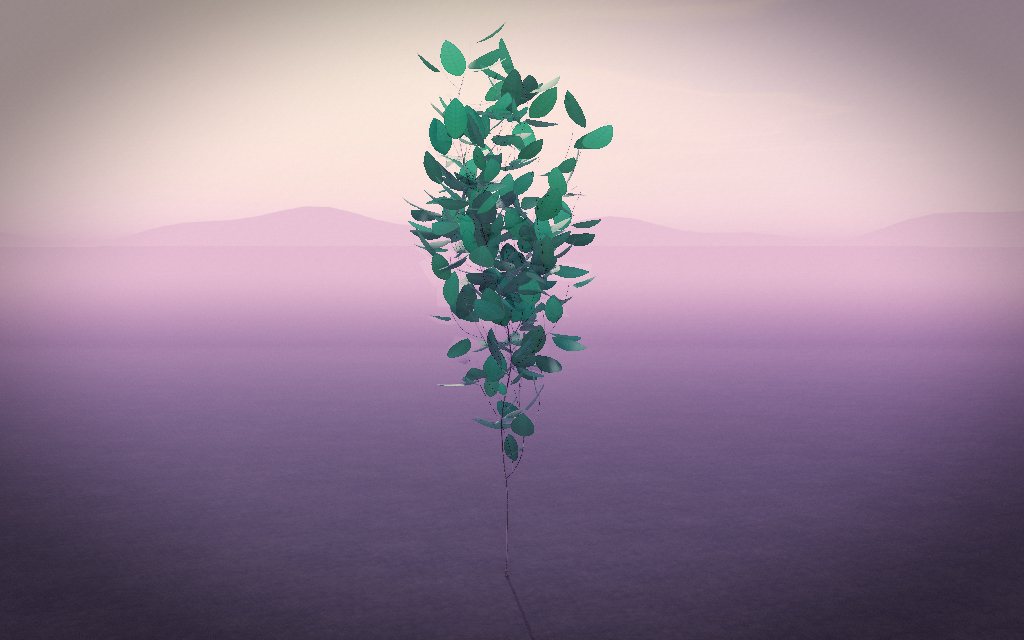
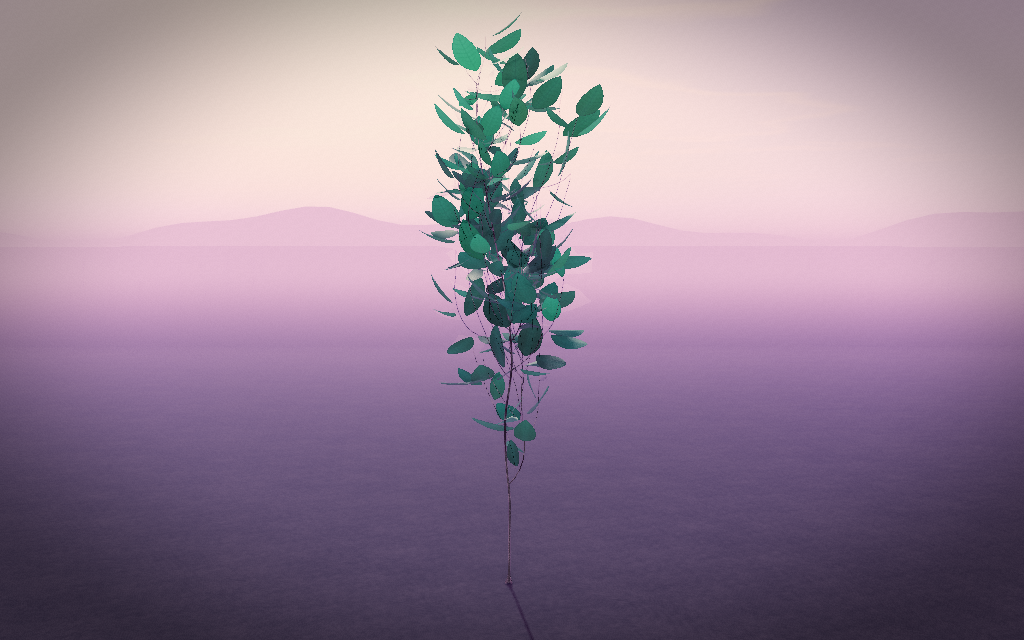
tune: low-g trunk thickness, sparser leaves; deployed; docs weaknesses

Changed region(s): [[0.4062, 0.0312, 0.625, 0.7188]]

diff --git a/src/presets.ts b/src/presets.ts
@@ -34,8 +34,8 @@ export const PRESETS: Record<string, Preset> = {
       // Tall, sparse, spiralling: almost no gravitropism, upward light drive, strong torsion, long internodes, few buds.
       growth: { gravity: 0.2, torsion: 14, gravitropism: 0.05, phototropism: 1.1, attraction: 0.8, wander: 0.4, maxTurn: 12, growthRate: 2.6, straightness: 2.4, branchAngle: 48, vigorDecay: 0.9, segmentLength: 0.42, sag: 0.3, scaffoldBranching: 0.5, branchingProbability: 0.09, apicalDominance: 0.85, selfPrune: 0.1, maxOrder: 4 },
       crown: { shape: 1.8, radius: 4.2, height: 12, base: 3.5, bole: 4, attractors: 1500 },
-      thickness: { exponent: 2.6, twigRadius: 0.006, rootFlare: 2.0 },
-      leaves: { size: 1.9, density: 0.35, hue: 0.47, saturation: 0.55, shape: -0.6, lightness: 1.2, glow: 0.15, glowHue: 0.48 },
+      thickness: { exponent: 2.2, twigRadius: 0.008, rootFlare: 2.0 },
+      leaves: { size: 2.0, density: 0.26, hue: 0.47, saturation: 0.55, shape: -0.6, lightness: 1.2, glow: 0.15, glowHue: 0.48 },
       light: { azimuth: 35, elevation: 82 },
       sky: { timeOfDay: 16.5, skyHue: 0.78, skyTint: 0.6, sunHue: 0.6, sunTint: 0.45, sun2: 0.5, sun2Hue: 0.95, sun2Yaw: 110, sunSize: 1.8, groundHue: 0.75, groundTint: 0.55 },
     },

diff --git a/README.md b/README.md
@@ -67,3 +67,5 @@ node scripts/screenshot.mjs 30,90 "gravity=0.12&gravitropism=0.05" alien
 - Noon foliage is green now (leaf envMapIntensity 0.3, more saturation) but still reads dark from below.
 - Journey/drift changes to crown params only take effect via attractor re-sampling; cinema camera is not tested headless (shots disable it). Journey end shot (m3-journey-day-16.8-end) crops the crown top: framing lags the late upward growth after attractor re-sampling. Heavy world reads squat and buttressed but the crown is a dense flat mat.
 - Branches have no wind sway, only leaves do. Sag does not resolve collisions.
+- Low-gravity alien is tall (~24 m, 2.7× the oak) with sparse huge leaves, but its trunk still reads hair-thin at full-frame distance and the spiral arcs are only faintly visible; the crown is more columnar than arched.
+- Cinema push-ins may crop crown edges briefly; the resting orbit and auto-frame fit the full bounding sphere.
